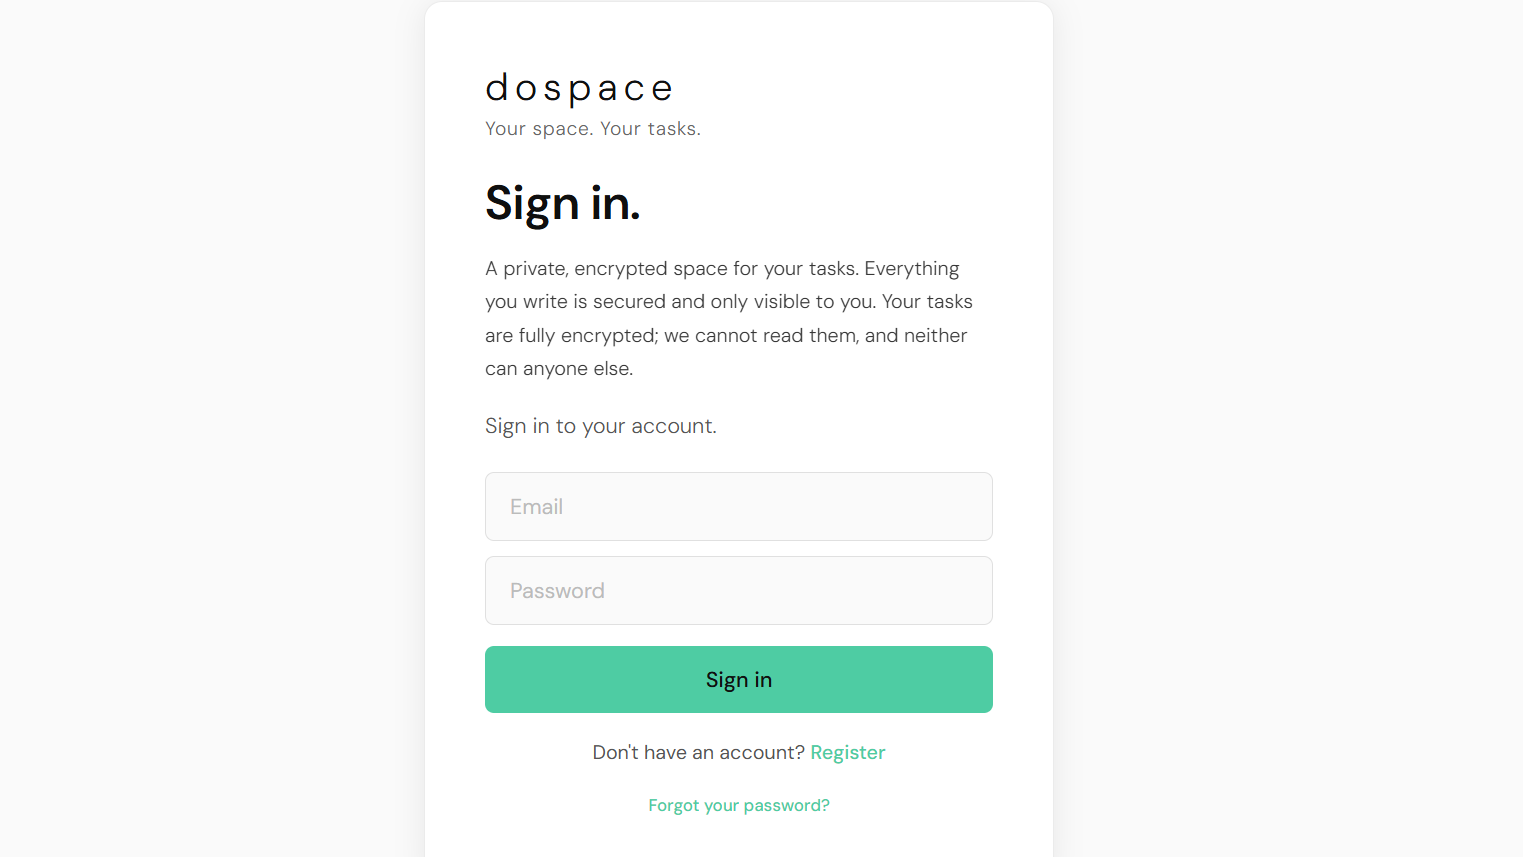
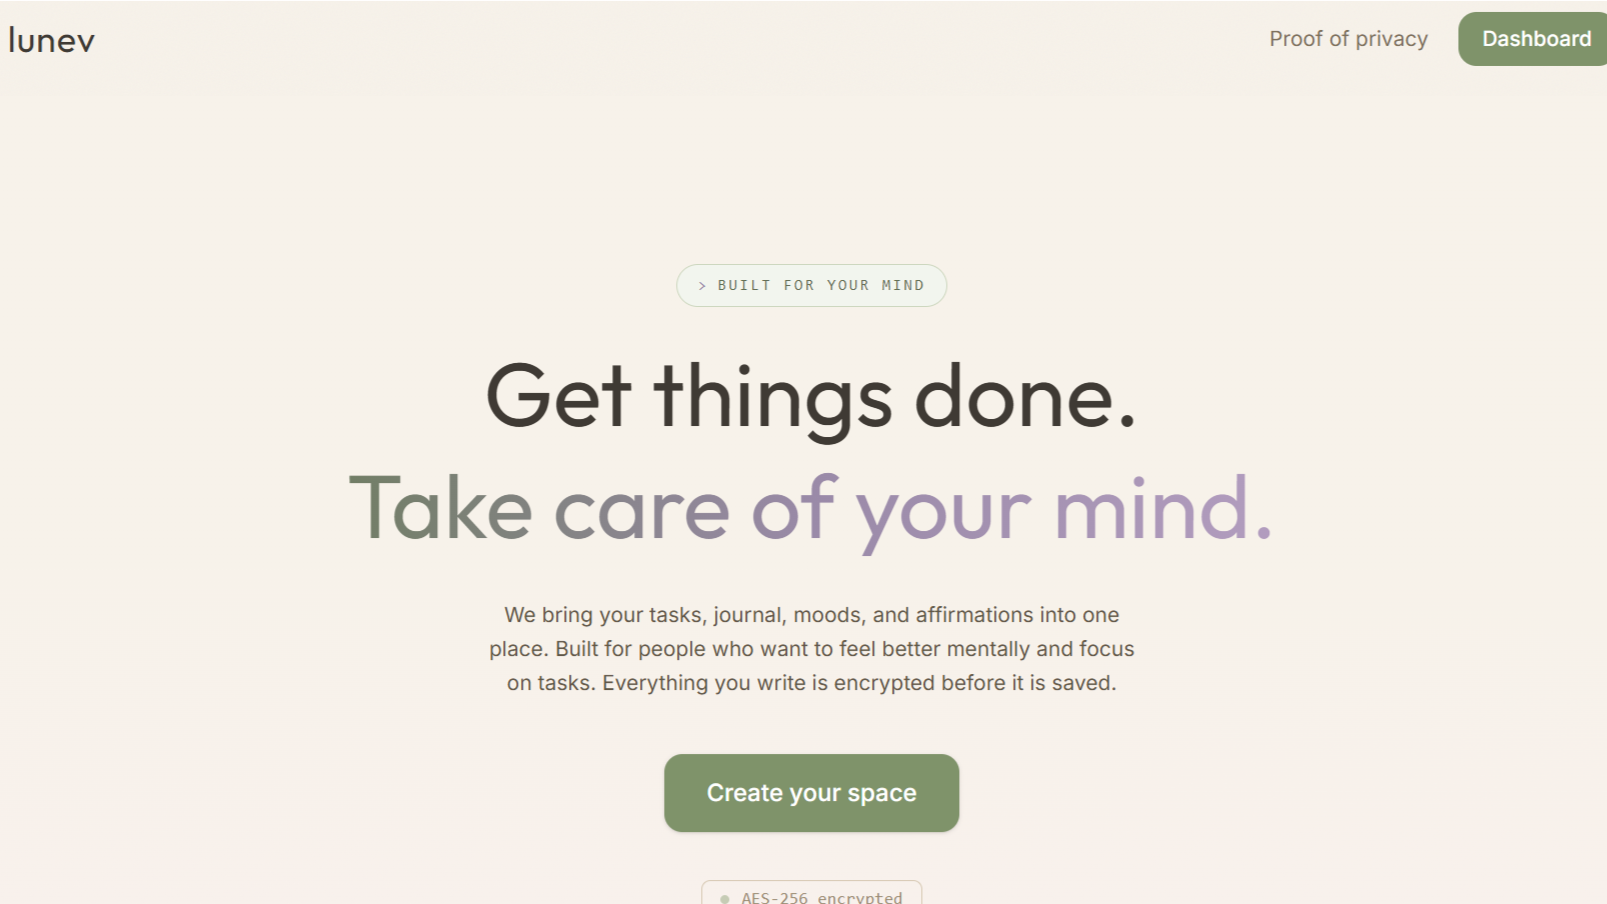
Added/updated project.

diff --git a/src/App.jsx b/src/App.jsx
@@ -122,17 +122,17 @@ function About() {
 const projects = [
   {
     img: dospacePhoto,
-    alt: 'dospace',
-    title: 'dospace',
-    desc: 'Built with React, Vite, Node.js, and PostgreSQL, this full-stack encrypted to-do list manager secures every task with AES-256 encryption so not even the admin can read them. To-dos are stored in the database as unreadable ciphertext. Features JWT authentication, bcrypt hashing, email verification with auto-expiry, password reset via domain-verified transactional email, password strength validation, idle session timeout with tab close detection, account deletion with email confirmation, and cascade delete.',
-    tags: ['React', 'Vite', 'Node.js', 'Express', 'PostgreSQL', 'JWT', 'AES-256'],
+    alt: 'lunev',
+    title: 'lunev',
+    desc: ' Built with React, Vite, Tailwind, Node.js, Express, and PostgreSQL, this full-stack mental wellness and productivity app brings tasks, journaling, mood tracking, affirmations, and focus tools into one private space. Every piece of user-written content is encrypted with AES-256-GCM before it reaches the database, so a leak would only expose unreadable ciphertext. Features JWT authentication with rotating refresh tokens and reuse detection, bcrypt hashing, email-based two-step verification, email verification with auto-expiry, password reset via domain-verified transactional email, password strength validation, rate limiting, CSRF origin checks, a strict Content-Security-Policy, idle session timeout with tab close detection, and password-confirmed account deletion.',
+    tags: ['React', 'Vite', 'Tailwind CSS', 'Node.js', 'Express', 'PostgreSQL', 'JWT', '2FA', 'AES-256-GCM', 'bcrypt'],
     links: [
       { href: 'https://dospace.vercel.app', label: 'live' },
       { href: 'https://github.com/laybuh/todo-frontend', label: 'github (FE)' },
       { href: 'https://github.com/laybuh/todo-app', label: 'github (BE)' },
     ]
   },
-    {
+  {
     img: eliPhoto,
     alt: '3li3li',
     title: '3li3li',